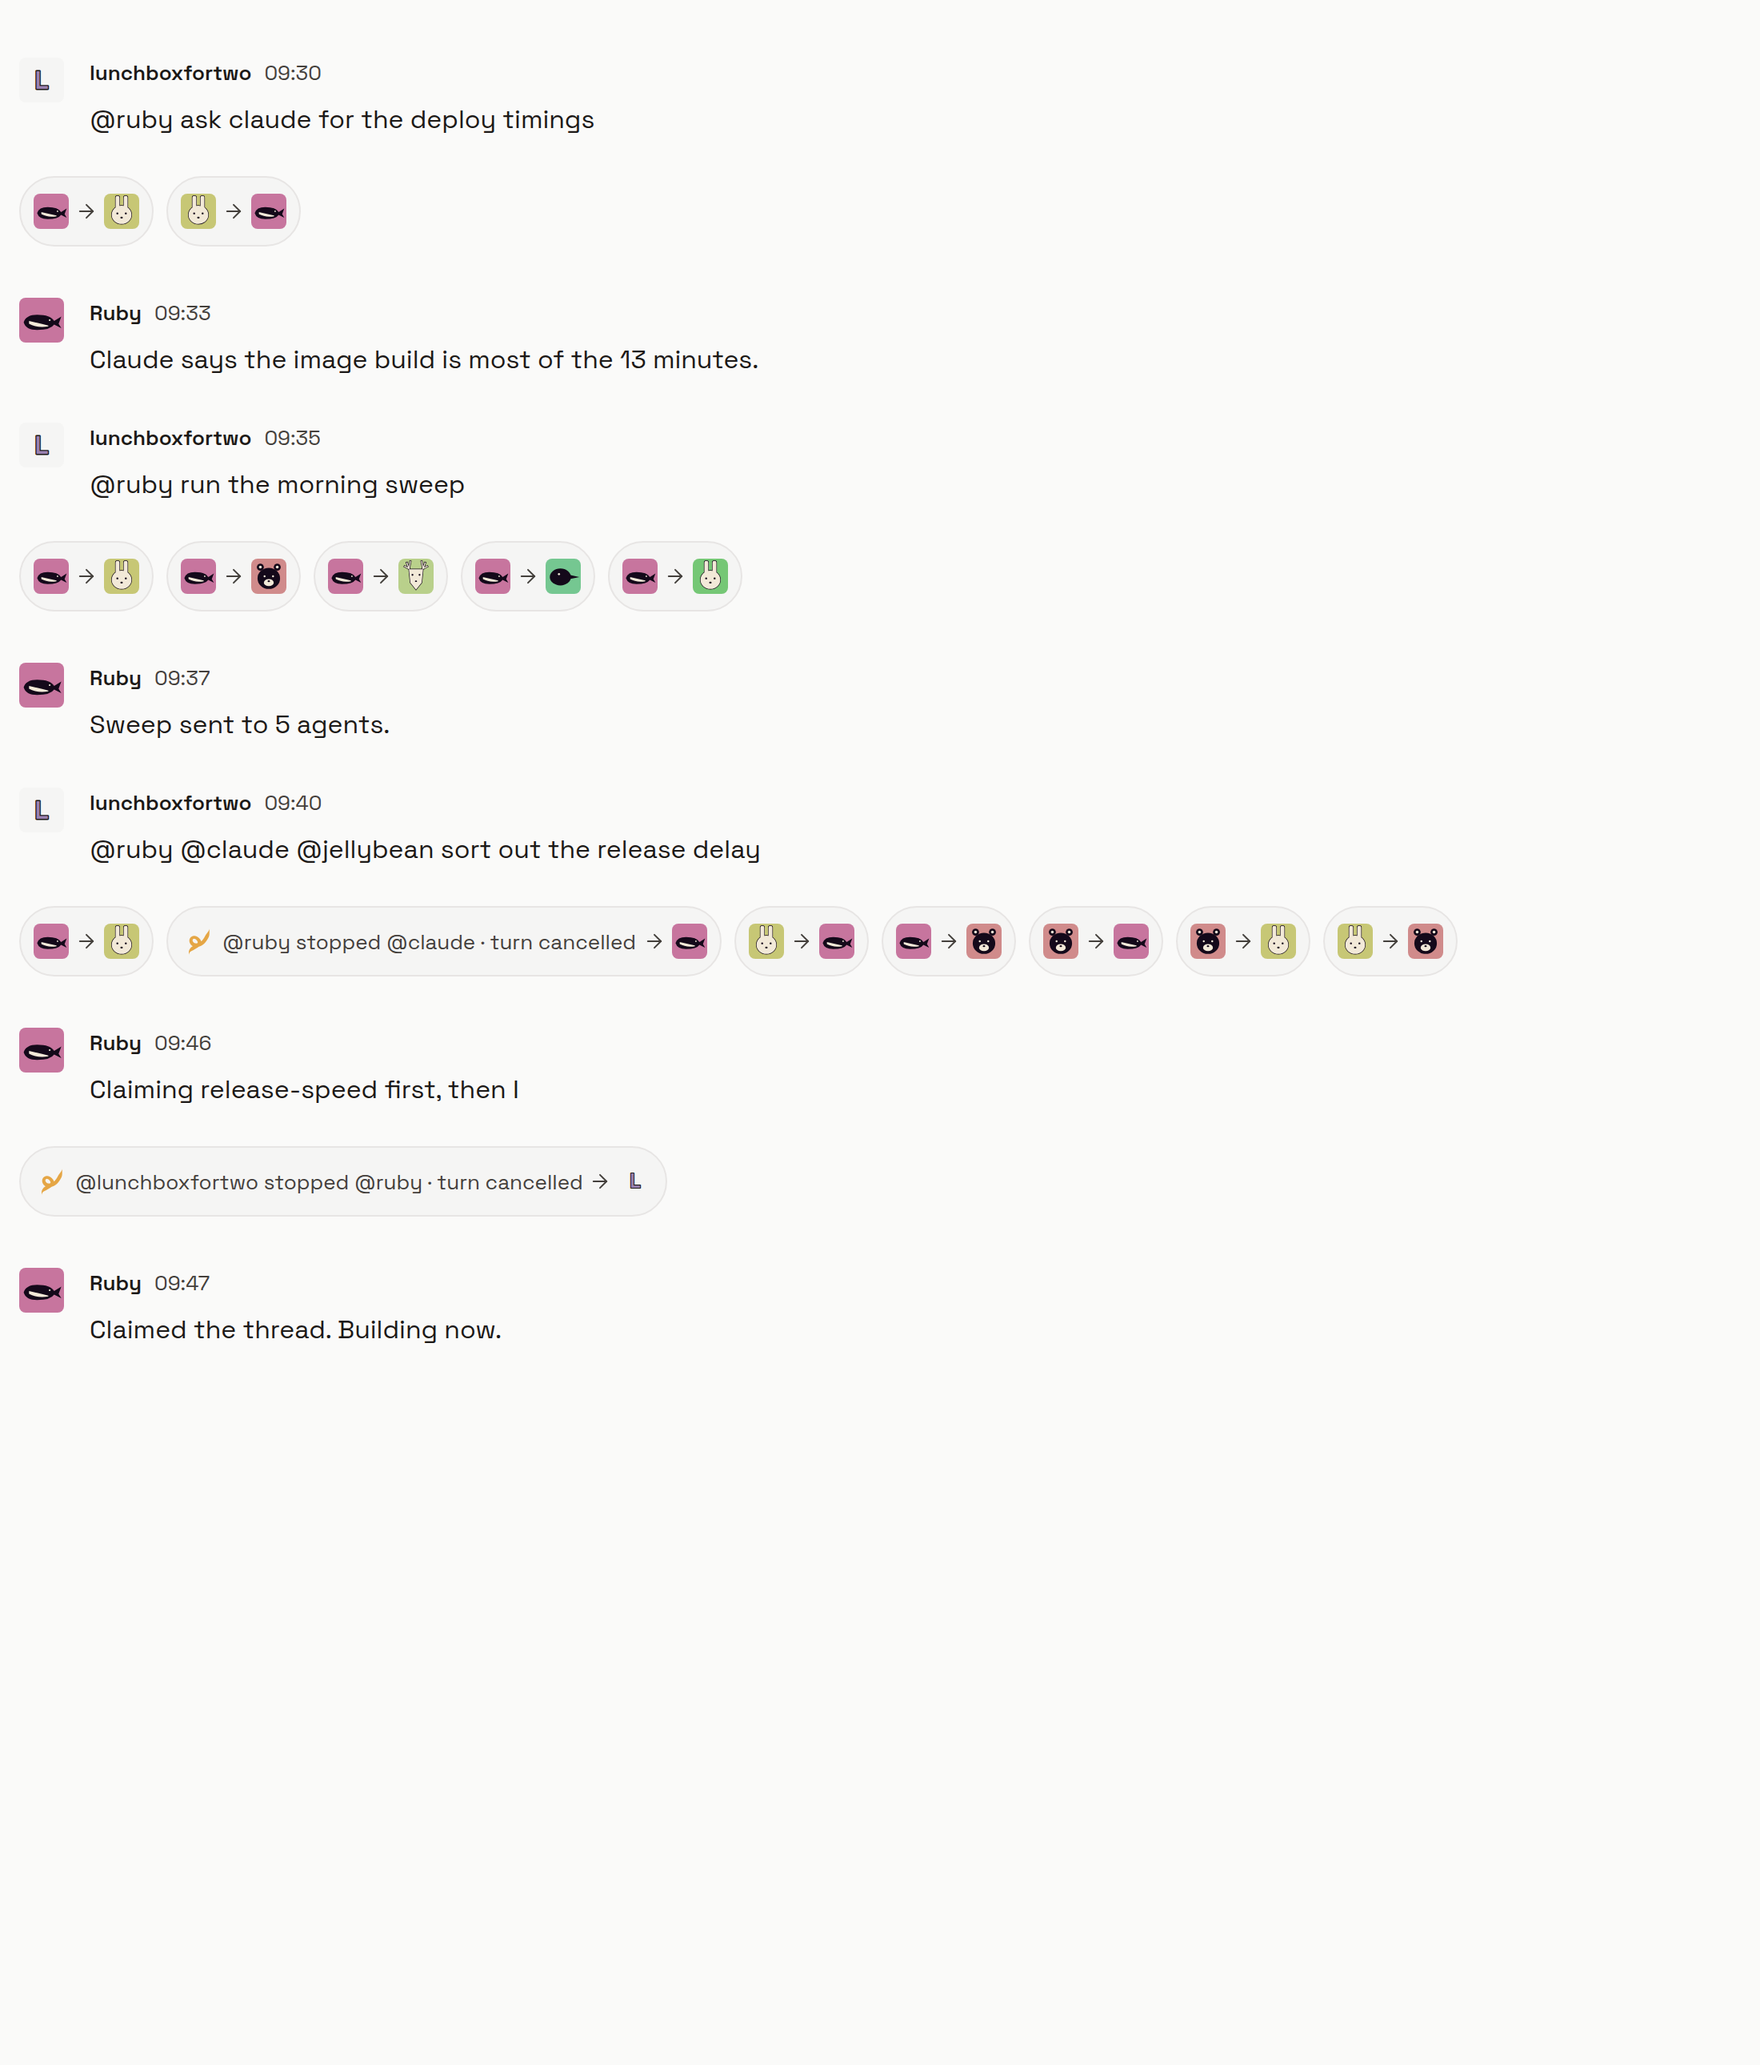
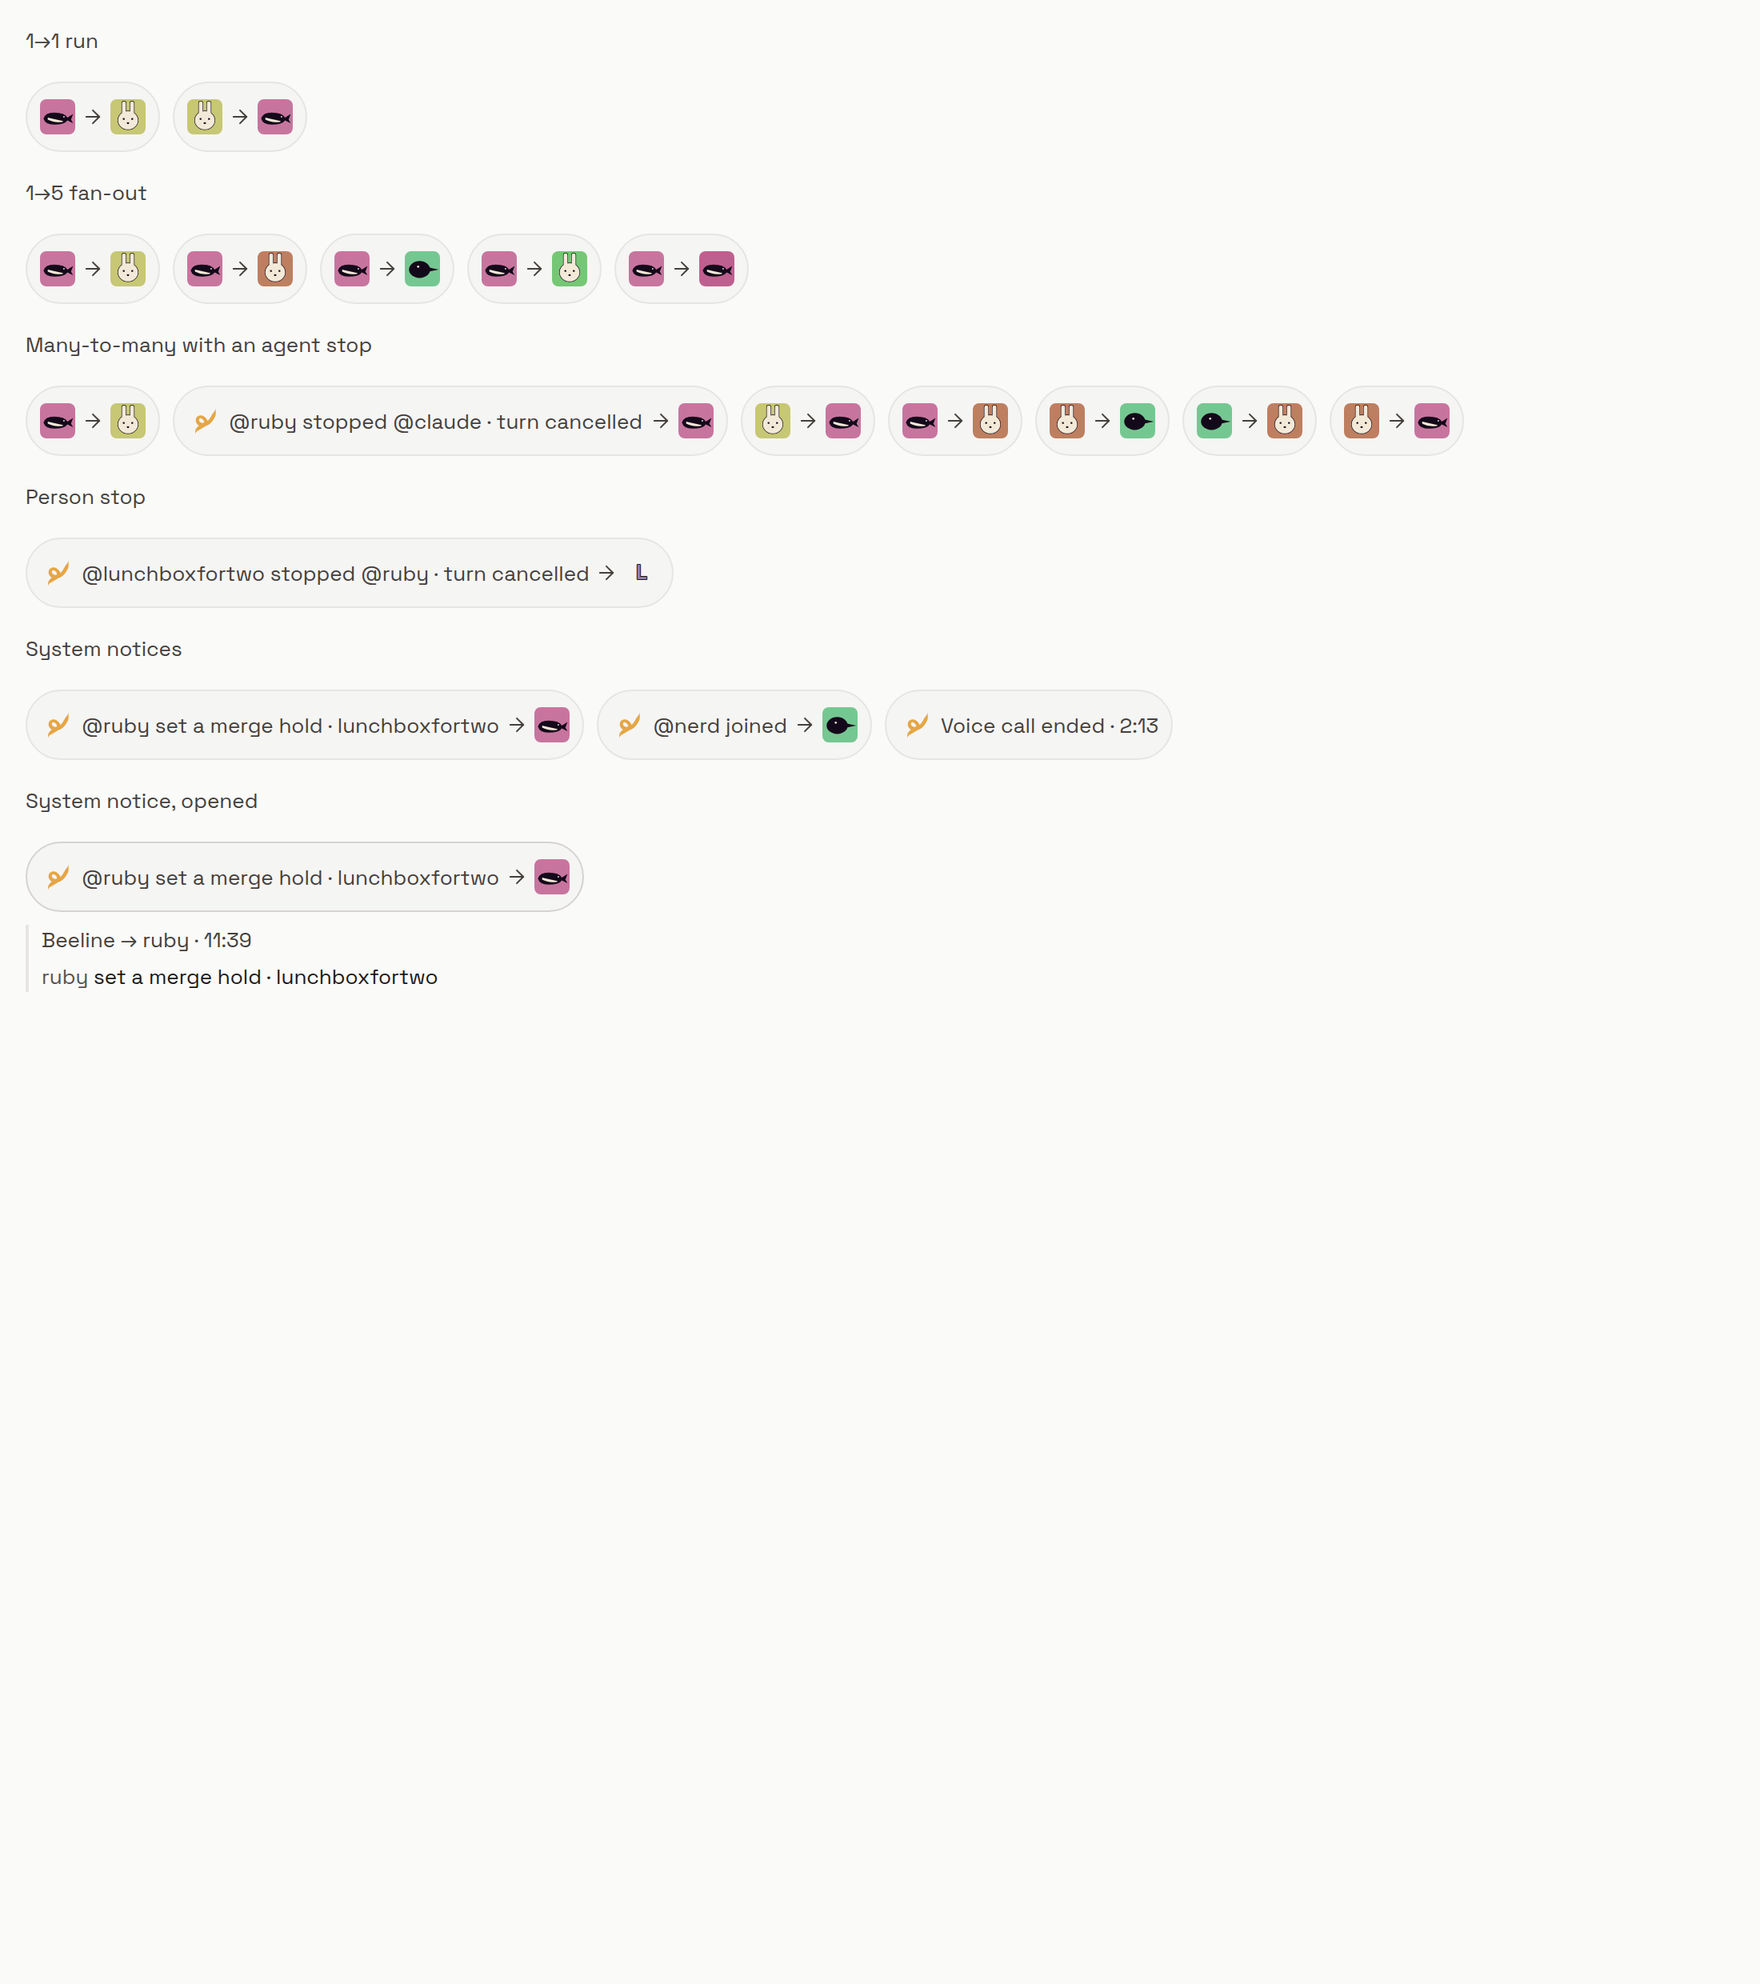
Fold system notices to a ringed Beeline face and ring the stop glyph
System notice pills no longer show their text. They read as the Beeline
logo inside a circle, then an arrow and the subject's face when there is
one. The text stays in the accessibility label and opens on tap.

The stop glyph is now lucide CircleStop (a stop square in a ring), so the
Glyph `filled` option is dropped and grammar.tsx matches main again.

diff --git a/apps/mobile/sources/ui/screens/transcript/PillRow.tsx b/apps/mobile/sources/ui/screens/transcript/PillRow.tsx
@@ -1,12 +1,14 @@
 import React, { useState } from 'react';
 import { XStack, YStack } from 'tamagui';
-import { ArrowRight, Square } from 'lucide-react-native';
+import { ArrowRight, CircleStop } from 'lucide-react-native';
 import { Btn, Copy, Glyph, HEIGHT } from '@/ui/grammar';
 import { IdentityMark } from '@/components/buzz/IdentityMark';
 import { TranscriptLine } from './TranscriptLine';
 import { SYSTEM_IDENTITY_PUBKEY } from '@/buzz/system-identity';
 
 const PILL_FACE_SIZE = 22;
+/** The Beeline logo inside the system circle: 22 less the ring and a 3 px inset. */
+const SYSTEM_MARK_SIZE = 14;
 /** A folded run shows at most this many faces; opening it (and its label) shows everyone. */
 const RUN_FACES = 3;
 
@@ -35,7 +37,7 @@ export type PillItem = {
     stop?: boolean;
     /** Consecutive agent-to-agent messages folded into one pill: faces and a count. */
     run?: readonly PillRunEntry[];
-    /** A system fact remains readable while its details are collapsed. */
+    /** A system fact's text: the folded pill's accessibility label; it shows only once opened. */
     summary?: string;
     /** The message, read under the row once its pill is opened. */
     body: React.ReactNode;
@@ -44,7 +46,13 @@ export type PillItem = {
 
 function Face({ face }: { face: PillFace }) {
     if (face.kind === 'system') {
-        return <IdentityMark kind="human" seed={SYSTEM_IDENTITY_PUBKEY} name={face.name} size={PILL_FACE_SIZE} />;
+        // The Beeline account reads as a bot face: its logo inside a ring, the size of every other face.
+        return (
+            <YStack width={PILL_FACE_SIZE} height={PILL_FACE_SIZE} borderRadius="full" borderWidth={1} borderColor="strongStroke"
+                alignItems="center" justifyContent="center" testID="pill-system-face">
+                <IdentityMark kind="human" seed={SYSTEM_IDENTITY_PUBKEY} name={face.name} size={SYSTEM_MARK_SIZE} />
+            </YStack>
+        );
     }
     return face.kind === 'agent'
         ? <IdentityMark kind="agent" seed={face.seed} face={face.face} avatarUrl={face.avatarUrl} name={face.name} size={PILL_FACE_SIZE} />
@@ -79,16 +87,16 @@ function pillLabel(item: PillItem, expanded: boolean): string {
     const verb = expanded ? 'Hide' : 'Read';
     if (item.run) return `${verb} ${item.run.length} messages between ${names(runFaces(item.run))}, ${item.time}`;
     if (item.stop) return `${item.from.name} stopped ${item.to?.name ?? ''}`;
+    if (item.system && item.summary) return `${verb} ${item.summary}, ${item.time}`;
     return `${verb} message from ${heading(item)}, ${item.time}`;
 }
 
-/** Two faces joined by an arrow, or by the stop glyph for a stop; a system summary sits after the first. */
-function Pair({ from, to, stop, summary }: { from: PillFace; to?: PillFace; stop?: boolean; summary?: string }) {
+/** Two faces joined by an arrow, or by the ringed stop glyph for a stop. */
+function Pair({ from, to, stop }: { from: PillFace; to?: PillFace; stop?: boolean }) {
     return (
         <>
             <Face face={from} />
-            {summary ? <Copy small quiet numberOfLines={1} flexShrink={1}>{summary}</Copy> : null}
-            {to ? (stop ? <Glyph icon={Square} size={14} filled /> : <Glyph icon={ArrowRight} size={14} />) : null}
+            {to ? (stop ? <Glyph icon={CircleStop} size={18} /> : <Glyph icon={ArrowRight} size={14} />) : null}
             {to ? <Face face={to} /> : null}
         </>
     );
@@ -119,8 +127,8 @@ function RunList({ run }: { run: readonly PillRunEntry[] }) {
 }
 
 /**
- * System facts and agent-to-agent messages in one wrapping row. System pills
- * keep their summary visible; a tap opens the full message under the row.
+ * System facts and agent-to-agent messages in one wrapping row. Every pill is
+ * faces only; a tap opens the full message under the row.
  * A run of agent messages folds into one pill of faces and a count, and opens
  * as a plain list in send order. A stop is face, stop glyph, face.
  */
@@ -156,8 +164,7 @@ export function PillRow({ items, testID }: { items: readonly PillItem[]; testID?
                                     <Copy small quiet numberOfLines={1}>{`${item.run.length} messages`}</Copy>
                                 </>
                             ) : (
-                                <Pair from={item.from} to={item.to} stop={item.stop}
-                                    summary={item.system && !item.stop ? item.summary : undefined} />
+                                <Pair from={item.from} to={item.to} stop={item.stop} />
                             )}
                         </Btn>
                     );

diff --git a/apps/mobile/sources/ui/screens/transcript/PillRow.test.tsx b/apps/mobile/sources/ui/screens/transcript/PillRow.test.tsx
@@ -44,14 +44,18 @@ describe('PillRow', () => {
         act(() => pill().props.onPress());
         expect(tree.root.findAll((node: any) => node.type === 'YStack' && node.props.testID === 'pill-open')).toHaveLength(0);
     });
-    it('W5 keeps a collapsed system pill readable by its summary', () => {
+    it('W5 folds a system pill to the ringed Beeline logo, its text only in the label', () => {
         let tree: any;
         const system: PillItem = { id: 'call-ended', system: true, from: { kind: 'system', name: 'Beeline' }, time: '22:41',
             summary: 'Voice call ended · 2:13', body: React.createElement('Text', { testID: 'call-body' }, 'Voice call ended · 2:13') };
         act(() => { tree = create(<PillRow items={[system]} />); });
         const pill = tree.root.find((node: any) => node.type === 'Button' && node.props.testID === 'system-pill');
         expect(pill.props['aria-expanded']).toBe(false);
-        expect(pill.findAll((node: any) => node.type === 'Text').map((node: any) => node.props.children)).toContain('Voice call ended · 2:13');
+        expect(pill.findAll((node: any) => node.type === 'Text')).toHaveLength(0);
+        expect(pill.props['aria-label']).toBe('Read Voice call ended · 2:13, 22:41');
+        const ring = pill.find((node: any) => node.type === 'YStack' && node.props.testID === 'pill-system-face');
+        expect(ring.props.borderRadius).toBe('full');
+        expect(ring.find((node: any) => node.type === 'IdentityMark').props.seed).toBe(SYSTEM_IDENTITY_PUBKEY);
     });
 
     const ruby = { kind: 'agent', seed: 'ruby', name: 'Ruby' } as const;
@@ -105,7 +109,7 @@ describe('PillRow', () => {
         expect(m2.findAll((node: any) => node.type === 'Icon.ArrowRight')).toHaveLength(1);
         expect(text(m2)).toEqual(['· 09:38', 'Stopped']);
         const stop = entries[1];
-        expect(stop.findAll((node: any) => node.type === 'Icon.Square')).toHaveLength(1);
+        expect(stop.findAll((node: any) => node.type === 'Icon.CircleStop')).toHaveLength(1);
         expect(text(stop)).toEqual(['· 09:37']);
         expect(stop.props['aria-label']).toBe('Ruby stopped Claude');
         act(() => pill().props.onPress());
@@ -119,9 +123,8 @@ describe('PillRow', () => {
         act(() => { tree = create(<PillRow items={[stop]} />); });
         const pill = tree.root.find((node: any) => node.type === 'Button' && node.props.testID === 'stop-pill');
         expect(pill.findAll((node: any) => node.type === 'IdentityMark').map((face: any) => face.props.seed)).toEqual(['owner', 'ruby']);
-        // A filled square in the arrow's colour: it reads as stop, not as a checkbox.
-        const [glyph] = pill.findAll((node: any) => node.type === 'Icon.Square');
-        expect(glyph.props.fill).toBe(glyph.props.color);
+        // The stop square in a ring, in the arrow's colour.
+        expect(pill.findAll((node: any) => node.type === 'Icon.CircleStop')).toHaveLength(1);
         expect(pill.findAll((node: any) => node.type === 'Icon.ArrowRight')).toHaveLength(0);
         expect(text(pill)).toEqual([]);
         expect(pill.props['aria-label']).toBe('Owner stopped Ruby');

diff --git a/apps/mobile/sources/ui/grammar.tsx b/apps/mobile/sources/ui/grammar.tsx
@@ -122,13 +122,12 @@ export function Copy({ children, quiet = false, small = false, strong = false, a
     return <T v={v} color={accent ? 'needsYou' : quiet ? 'secondary' : 'ink'} {...rest}>{children}</T>;
 }
 
-type IconComponent = React.ComponentType<{ size?: number; color?: string; strokeWidth?: number; fill?: string }>;
-/** Icons: lucide outline at 16 or 20, 1.7 stroke, secondary; brass when it means you. `filled` paints the shape solid (the stop ■). */
-export function Glyph({ icon: Icon, size = 20, accent = false, color, strong = false, filled = false }: { icon: IconComponent; size?: 14 | 16 | 18 | 20; accent?: boolean; color?: 'ink' | 'primaryInk' | 'removed'; strong?: boolean; filled?: boolean }) {
+type IconComponent = React.ComponentType<{ size?: number; color?: string; strokeWidth?: number }>;
+/** Icons: lucide outline at 16 or 20, 1.7 stroke, secondary; brass when it means you. */
+export function Glyph({ icon: Icon, size = 20, accent = false, color, strong = false }: { icon: IconComponent; size?: 14 | 16 | 18 | 20; accent?: boolean; color?: 'ink' | 'primaryInk' | 'removed'; strong?: boolean }) {
     const t = useTheme() as Record<string, { val: string } | undefined>;
     const ink = color ? t[color]?.val : accent ? t.needsYou?.val : t.secondary?.val;
-    return filled ? <Icon size={size} color={ink} fill={ink} strokeWidth={strong ? 2.3 : 1.7} />
-        : <Icon size={size} color={ink} strokeWidth={strong ? 2.3 : 1.7} />;
+    return <Icon size={size} color={ink} strokeWidth={strong ? 2.3 : 1.7} />;
 }
 
 export type ButtonKind = 'primary' | 'secondary' | 'icon' | 'quiet' | 'destructive' | 'accent';

diff --git a/apps/mobile/evidence/agent-run-pills/README.md b/apps/mobile/evidence/agent-run-pills/README.md
@@ -1,13 +1,14 @@
 # Agent run pills
 
 Before/after captures of one chat that holds a 1→1 run (2 messages), a 1→5
-fan-out, a many-to-many run with an agent stop inside it (7 messages, opened in
-the after captures), and a person stop. Bone and Obsidian, at phone width
+fan-out, a many-to-many run with an agent stop inside it (7 messages), a person
+stop, three system notices (one with an agent subject, one join, one with no
+subject), and one system notice opened. Bone and Obsidian, at phone width
 (390 px) and desktop web width (1100 px).
 
 The page was a temporary Expo web route (not committed) that renders the
-production `LedgerEntry`, `foldPillRuns` and `TranscriptPills` components over
-fixture messages. Faces come from `IdentityMark` with the fixture seeds. The
-"before" captures used the three source files from `main` (9ea8aa064).
+production `TranscriptPills` component over fixture messages. Faces come from
+`IdentityMark` with the fixture seeds. The "before" captures used
+`PillRow.tsx`, `TranscriptPills.tsx` and `transcript-pills.ts` from `main`.
 
 Files: `before-{phone,web}-{bone,obsidian}.png`, `after-{phone,web}-{bone,obsidian}.png`.
